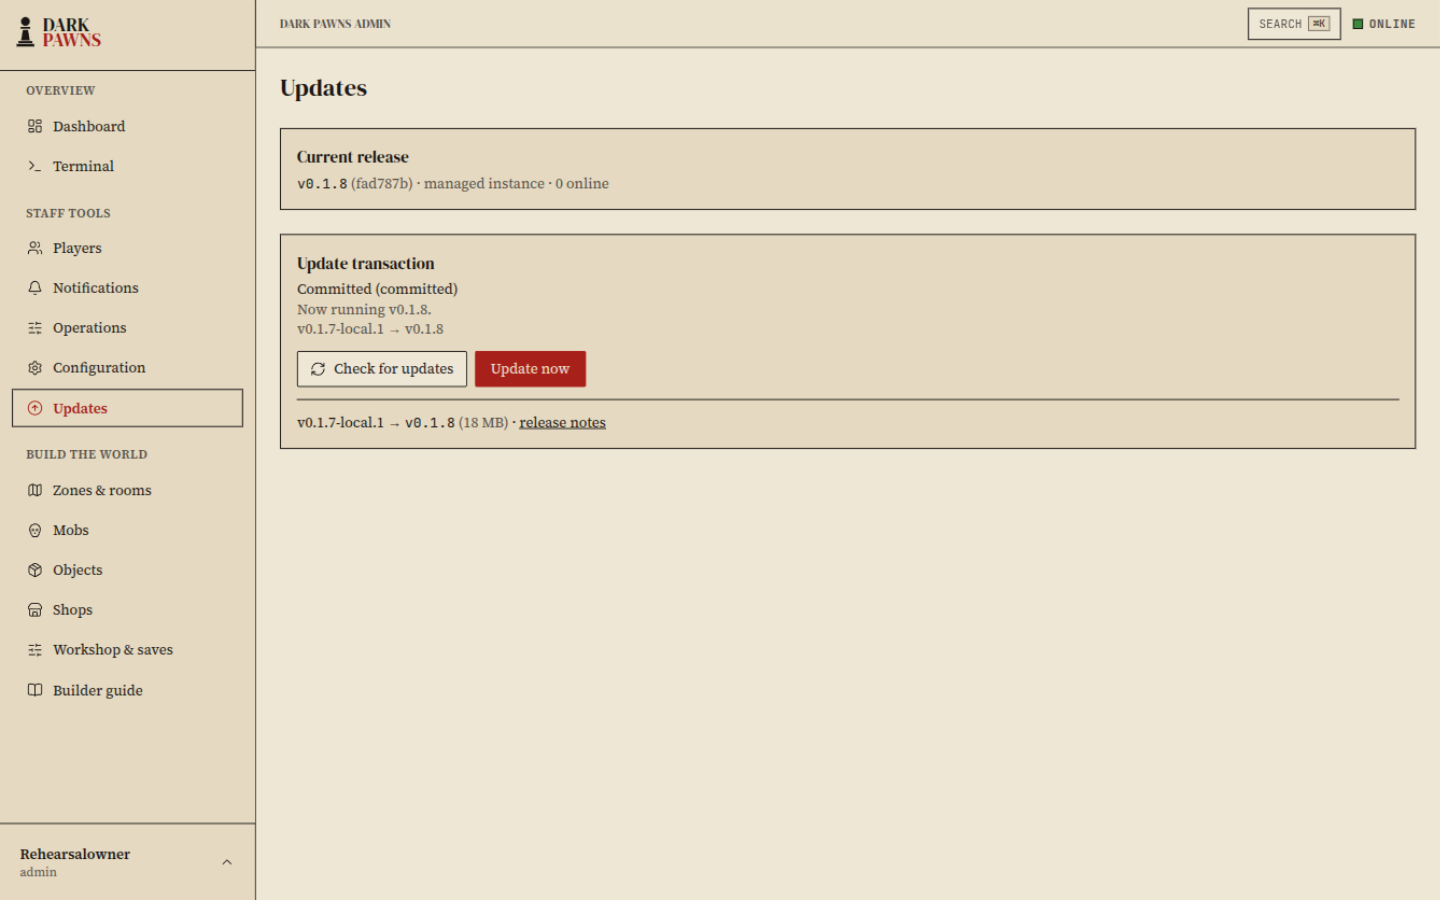
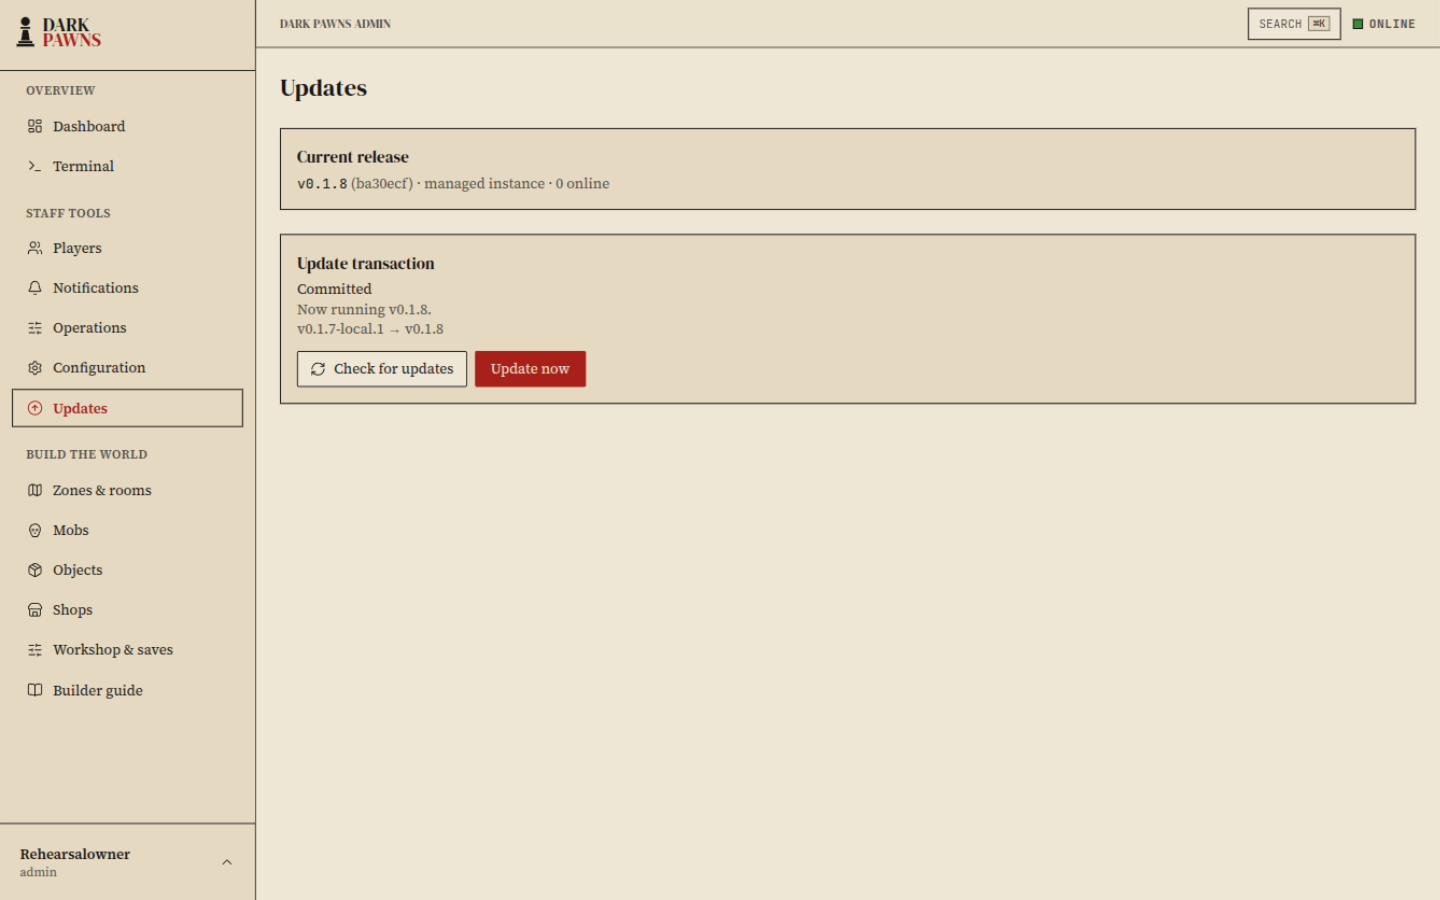
docs(evidence): polish-round rehearsal — downgrade refusal and retry UI
v0.1.8 committed with the new confirm copy; the older v0.1.7 refused by
the console (no plain update offered) and by the CLI (clear message,
--allow-downgrade stages it); the broken v0.1.9 rolled back twice, with
the page naming the failed release, offering Retry with the same confirm,
and linking the updates documentation. Desktop and mobile shots updated.

Changed region(s): [[0.1875, 0.4356, 0.9688, 0.4978], [0.25, 0.3111, 0.3125, 0.3422], [0.25, 0.1867, 0.2812, 0.2178]]

diff --git a/docs/evidence/2026-10-27-stage-d-rehearsal/README.md b/docs/evidence/2026-10-27-stage-d-rehearsal/README.md
@@ -29,8 +29,9 @@ health gate and the automatic rollback.
 ## Success case: v0.1.7-local.1 → v0.1.8
 
 `updates-check-desktop.png` (check result), `updates-confirm-desktop.png`
-(confirm dialog: who is online, forced save, snapshot/swap/health-check,
-automatic rollback, the LAN/WAN honesty line), `updates-inprogress-desktop.png`
+(confirm dialog "Update to v0.1.8?": who is online by name, verification
+before the world stops, automatic return of the current release),
+`updates-inprogress-desktop.png`
 (staging, captured after a mid-transaction page refresh — the refresh landed
 back on the status view), `updates-committed-desktop.png` (same browser tab
 across the restart, reporting v0.1.8 and "Committed").
@@ -66,6 +67,28 @@ The journal recorded the exact failure and outcome
 The transaction directory retained `backup/`, `backup-manifest.json` and
 `failed-lib/` for inspection.
 
+## Downgrade refusal (review polish)
+
+With v0.1.8 running and the feed offering the older v0.1.7: the console's
+check names the direction and offers no plain update
+(`updates-downgrade-refused-desktop.png`); the CLI refuses with
+`refusing to downgrade from v0.1.8 to v0.1.7; your world was not stopped;
+rerun with --allow-downgrade to force`, and `--allow-downgrade` stages it
+(`cli-downgrade-refusal.txt`). This closes the hostile-mirror case for
+`DP_RELEASE_ENDPOINT` feeds: a mirror cannot walk an instance backwards
+without the operator's explicit flag, which the console never sends. An
+equal version carrying a different commit is refused the same way
+(unit-tested in `internal/portable/version_guard_test.go`).
+
+## Retry after rollback (review polish)
+
+After the broken v0.1.9 was rolled back a second time, the page names the
+failed release, hides the plain Update now, offers **Retry v0.1.9 anyway**
+with the same confirm dialog (titled "Retry update to v0.1.9?"), and links
+the updates documentation (`updates-rolledback-retry-desktop.png`,
+`updates-retry-confirm-desktop.png`). Retrying re-ran the transaction, failed
+the same health gate, and restored v0.1.8 again.
+
 ## Configuration page
 
 `settings-default-desktop.png` (all groups; the access card carries the
@@ -80,6 +103,11 @@ secrets-untouched note). Mobile: `settings-mobile.png`,
 `updates-mobile.png` (390×844, bottom tab bar layout).
 
 ## Bugs the rehearsal caught (all fixed in this PR)
+
+(Polish round notes: the first update click after the rebuild surfaced the
+one-slot journal showing the previous transaction's terminal state while the
+new one staged — pre-existing single-journal behavior; the page reports the
+new transaction as soon as its journal is written.)
 
 1. **Snapshot-linked builds could not verify a release feed** — the feed
    path pinned the production key directly instead of `TrustedKeyBytes()`

diff --git a/website-astro/src/content/docs/server/admin-configuration.md b/website-astro/src/content/docs/server/admin-configuration.md
@@ -82,7 +82,9 @@ stopped, and publisher verification still happens at staging time.
    update. The page polls the launcher's journal-backed status, which
    survives both the restart and a browser refresh.
 3. Status reads staging → applying → testing → committed (or rolled back).
-   If a transaction was interrupted (the machine died mid-update), the page
+   After a rollback the page names the release that failed its health
+   check and offers an explicit **Retry** of that same release rather than
+   a plain update button. If a transaction was interrupted (the machine died mid-update), the page
    says recovery is needed and prints the exact `darkpawns update recover`
    command. Recovery stays single-sourced in the CLI; the browser never
    invents its own updater.
